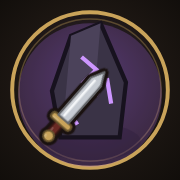
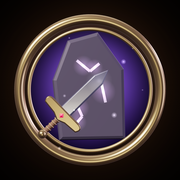
12.4: Charakterfenster mit Reitern, Magier ohne Bodendreieck, App-Symbol in 3D
Claude-Session: https://claude.ai/code/session_01E57rbLmDLzMX3aPcW8Bc43

diff --git a/js/oberflaeche.js b/js/oberflaeche.js
@@ -1366,25 +1366,43 @@ const ui = {
     const c = CLASSES[p.classId];
     const row = (k, v) => `<div><dt>${k}</dt><dd>${v}</dd></div>`;
     const pct = (v) => Math.round(v * 100) + ' %';
+    // Seit 12.4 auf Seiten verteilt (kein langes Scrollen): Status, Fertigkeiten, Werte
+    const tab = this.charTab || 'status';
+    const dot = (n) => (n > 0 ? `<i class="tab-dot">${n}</i>` : '');
+    const tabs = [['status', 'Status', dot(p.statPoints || 0)], ['skills', 'Fertigkeiten', dot(p.skillPoints || 0)], ['werte', 'Werte', '']];
+    const pages = {
+      status: this.elementHtml(p) + this.attrHtml(p),
+      skills:
+        `<p>Freie Fertigkeitspunkte: <span class="points">${p.skillPoints}</span> · Schriftrollen für deine Fertigkeiten: <span class="points">${totalBooks(p, true)}</span></p>` +
+        `<p class="hint-text">Bis Stufe 15 mit Punkten, dann mit einem Klick erwecken (E1–E10), danach geht es mit Fertigkeitsschriftrollen über Heroisch (H) und Legendär (L) bis Vollendet (V). Jede Schriftrolle gehört zu einer Fertigkeit. Seelensteine ab Stufe 40 lassen ab und zu Schriftrollen zu den Fertigkeiten deiner Klasse fallen; der Lehrmeister verkauft sie auch.</p>` +
+        skillListHtml(classSkills(p), p) + ultHtml(ultimateOf(p), p),
+      werte:
+        `<h3>Kampf</h3><dl class="stats">` +
+        row('Leben', s.maxHp) + row('Mana', s.maxMp) +
+        row('Angriff', s.atk) + row('Verteidigung', s.def) +
+        row('Kritische Treffer', pct(s.crit)) + row('Angriffstempo', pct(s.atkSpeed)) +
+        row('Magiestärke', '+' + pct(s.magic || 0)) + row('Lauftempo', speedText(p, s)) +
+        row('Blocken', pct(s.block)) + row('Ausweichen', pct(s.dodge)) +
+        `</dl><h3>Boni</h3><dl class="stats">` +
+        row('Stark gegen Monster', pct(s.monsterDmg || 0)) + row('Lebensraub', pct(s.hpSteal || 0)) +
+        `</dl><h3>Erfolge</h3><dl class="stats">` +
+        row('Besiegte Monster', p.kills.toLocaleString('de-DE')) + row('Zerstörte Seelensteine', p.stones) +
+        row('Tode', p.deaths) + row('Spielzeit', formatTime(p.playTime)) +
+        `</dl>`
+    };
     $('charBody').innerHTML =
       `<p class="char-head"><span><strong>${escapeHtml(p.name)}</strong> · ${c.name} · ${classPath(p.classId, p.path).name} · Stufe ${p.level}</span>` +
       `<button type="button" class="mini-btn" id="btnLook">✂ Aussehen ändern</button></p>` +
-      this.elementHtml(p) +
-      this.attrHtml(p) +
-      `<dl class="stats">` +
-      row('Leben', s.maxHp) + row('Mana', s.maxMp) +
-      row('Angriff', s.atk) + row('Verteidigung', s.def) +
-      row('Kritische Treffer', pct(s.crit)) + row('Lauftempo', speedText(p, s)) +
-      row('Angriffstempo', pct(s.atkSpeed)) + row('Magiestärke', '+' + pct(s.magic || 0)) +
-      row('Blocken', pct(s.block)) + row('Ausweichen', pct(s.dodge)) +
-      row('Stark gegen Monster', pct(s.monsterDmg || 0)) + row('Lebensraub', pct(s.hpSteal || 0)) +
-      row('Besiegte Monster', p.kills.toLocaleString('de-DE')) + row('Zerstörte Seelensteine', p.stones) +
-      row('Tode', p.deaths) + row('Spielzeit', formatTime(p.playTime)) +
-      `</dl>` +
-      `<h3>Fertigkeiten</h3>` +
-      `<p>Freie Fertigkeitspunkte: <span class="points">${p.skillPoints}</span> · Schriftrollen für deine Fertigkeiten: <span class="points">${totalBooks(p, true)}</span></p>` +
-      `<p class="hint-text">Bis Stufe 15 mit Punkten, dann mit einem Klick erwecken (E1–E10), danach geht es mit Fertigkeitsschriftrollen über Heroisch (H) und Legendär (L) bis Vollendet (V). Jede Schriftrolle gehört zu einer Fertigkeit. Seelensteine ab Stufe 40 lassen ab und zu Schriftrollen zu den Fertigkeiten deiner Klasse fallen; der Lehrmeister verkauft sie auch.</p>` +
-      skillListHtml(classSkills(p), p) + ultHtml(ultimateOf(p), p);
+      `<nav class="char-tabs" role="tablist">` +
+      tabs.map(([id, label, extra]) => `<button type="button" role="tab" data-ctab="${id}" class="${id === tab ? 'on' : ''}" aria-selected="${id === tab}">${label}${extra}</button>`).join('') +
+      `</nav><div class="char-page" data-page="${tab}">${pages[tab]}</div>`;
+    $('charBody').querySelectorAll('[data-ctab]').forEach((b) => {
+      b.addEventListener('click', () => {
+        this.charTab = b.dataset.ctab;
+        this.renderCharPanel();
+        $('charBody').scrollTop = 0;
+      });
+    });
     $('btnLook').addEventListener('click', () => this.openLookPanel());
     if ($('btnElement')) $('btnElement').addEventListener('click', () => this.showElementChoice());
     $('charBody').querySelectorAll('[data-upgrade]').forEach((b) => {

diff --git a/js/magier.js b/js/magier.js
@@ -468,7 +468,6 @@ function sigilFx(owner, x, y, sk, local, pw, lvl) {
   const last = sk.delay + (sk.ticks - 1) * sk.every;
   const tail = sk.el === 'frost' ? Math.max(1.8, sk.linger || 0) : sk.el === 'feuer' ? 0.5 : 0.35;
   const e = addEffect({ type: 'sigil3', ground: true, el: sk.el, x, y: fy, R: sk.radius, delay: sk.delay, ticks: sk.ticks, every: sk.every, last, dur: last + tail + 0.6, owner: ow, linger: sk.linger || 0 });
-  if (sk.el === 'frost') addEffect({ type: 'mground3', ground: true, x, y: fy, R: sk.radius, tex: 'hex', color: '#3a7bff', fadeIn: 0.15, delay: sk.delay, dur: sk.delay + (sk.linger || 3), op: 0.75 });
   for (let k = 0; k < sk.ticks; k++) {
     later(sk.delay + k * sk.every, () => {
       if (e.stop) return;
@@ -492,7 +491,6 @@ function sigilTick(owner, e, x, y, sk, k, last, local, pw, lvl) {
   const foes = local ? enemiesInCircle(x, y, sk.radius) : null;
   if (sk.el === 'feuer') {
     // Flammenwand am Rand zieht sich zur Mitte zusammen, dort ein Glutblitz
-    if (k === 0) addEffect({ type: 'decal', kind: 'scorch', x, y: fy, r: sk.radius * 0.8, dur: 3, color: '#2a0a0a' });
     later(0.4, () => {
       addEffect({ type: 'sparks3', x, y: fy, h: 0.4, count: 6, color: E.core, speed: 2.2, up: 1.4, dur: 0.5 });
       if (!V3.on) particles(x, fy - 8, { count: 12, color: ['#fff1c8', '#ff8a4a', '#e8362a'], speed: [60, 160], life: [0.25, 0.5], size: [2, 4], shape: 'ember', drag: 3 });
@@ -604,7 +602,8 @@ function mageHitFx(el) {
 function mageBuffCast(p, sk) {
   const E = mageElOf(sk.el);
   addEffect({ type: 'sigil3', ground: true, el: sk.el, follow: p, ox: 0, oy: 0, x: p.x, y: feetY(p), R: 50, flash: true, dur: 0.6 });
-  addEffect({ type: 'ring', follow: p, ox: 0, oy: 0, r: 50, dur: 0.5, color: E.main, width: 5, grow: true });
+  // (seit 12.4 ohne flachen Ring am Boden – das Siegel wirbelt die Funken nach oben)
+  void E;
 }
 
 (function () {
@@ -854,11 +853,32 @@ FX3_DRAW.sigil3 = function (h, e) {
   const sc = (0.6 + 0.4 * easeOut(draw)) * R;
   const rot = age * 0.4 + (n === 1 || n === 3 ? Math.PI : 0);
   const op = appear * end * (e.flash ? 1 : draw < 1 ? 0.75 + 0.25 * Math.sin(age * 18) : 0.85) * (n === 2 ? 0.55 : n === 3 ? 0.75 : 1);
-  // Rückseite in der dunklen Elementfarbe, darauf das leuchtende Dreieck
-  mGround(h, 'planeNMs' + n, MAGE_SIG_TEX[n], px, pz, sc * 1.05, 0.04, rot, E.deep, op * (e.small ? 0.5 : 0.7), true);
-  mGround(h, 'planeMs' + n, MAGE_SIG_TEX[n], px, pz, sc, 0.05, rot, E.main, op);
-  if (e.rank >= 0) mGround(h, 'plane', 'ring', px, pz, sc * 1.12, 0.045, 0, e.rankColor, op * 0.7);
-  if (e.flash) return;
+  // Seit 12.4 kein Dreieck mehr am Boden (der Spieler wollte keine Bodenzeichen): Elementfunken kreisen am Rand
+  // und steigen auf; beim Wirken (flash) wirbeln sie enger nach oben, dazu eine kurze Lichtsäule
+  const motes = e.flash ? (low ? 8 : 14) : low ? 14 : 24;
+  const spin = e.flash ? 2.6 : 0.9;
+  for (let i = 0; i < motes; i++) {
+    const ph = (age * (e.flash ? 1.6 : 0.8) + i * 0.137) % 1;
+    const a = (i / motes) * Math.PI * 2 + rot * 0.5 + age * spin * (e.flash || i % 2 ? 1 : -1);
+    const rr = sc * (e.flash ? 0.35 + 0.55 * (1 - ph) : 0.9 + 0.08 * Math.sin(age * 3 + i));
+    const yy = 0.08 + ph * (e.flash ? 1.7 : 0.85);
+    const s = (e.flash ? 0.17 : 0.15) * (1 - ph * 0.55) * (e.small ? 0.7 : 1);
+    mSprite(h, 'spriteMDisc', 'disc', x + Math.cos(a) * rr, yy, z + Math.sin(a) * rr, s, i % 3 ? E.main : E.hi, op * (1 - ph) * 0.95);
+  }
+  if (e.rank >= 0) for (let i = 0; i < 6; i++) {
+    const a = (i / 6) * Math.PI * 2 - age * 1.5;
+    mSprite(h, 'spriteMDisc', 'disc', x + Math.cos(a) * sc * 1.05, 0.25 + 0.1 * Math.sin(age * 4 + i), z + Math.sin(a) * sc * 1.05, 0.12, e.rankColor, op * 0.8);
+  }
+  if (e.flash) {
+    const k = clamp01(1 - age / e.dur);
+    const col = mTake(h, 'spriteMDisc', 'disc');
+    fx3Map(col, 'disc');
+    col.position.set(x, 1.0, z);
+    col.scale.set(sc * 0.55 + 0.25, 2.4 * (0.6 + 0.4 * appear), 1);
+    fx3Color(col, E.hi, op * 0.45 * k);
+    mSprite(h, 'spriteMDisc', 'disc', x, 0.35, z, sc * 0.9 + 0.3, E.main, op * 0.35 * k);
+    return;
+  }
   const T = age - e.delay;
   if (T < 0) return;
   const xx = e.x * U3;

diff --git a/index.html b/index.html
@@ -270,6 +270,7 @@
       <li>Einstellungen (Zahnrad oben rechts oder Taste O): Klänge und Lautstärke, Grafikqualität (Hoch, Mittel, Niedrig spart Akku), Kamera (Nah, Normal, Weit), Bildschirmwackeln, Schadenszahlen, Namen der Bewohner und Vibration; dazu Aussehen ändern, Server, Hilfe und zurück zum Startbildschirm.</li>
       <li>Aussehen: Bei der Erstellung wählst du Frisur (Kurz, Dutt, Lang, Stachelig, Pferdeschwanz, Glatze), Haarfarbe, Hautfarbe, Augenform, Augenfarbe und Gesichtszeichen; die Vorschau dreht sich beim Antippen. Später änderst du es im Charakterfenster mit „Aussehen ändern“. Mitspieler sehen dein Aussehen.</li>
       <li>Unter der Karte zeigt das Funkzeichen deinen Ping: im Kanal zum Host, allein zum Spielserver; ohne Internet steht dort „offline“.</li>
+      <li>Version 12.4 – <b>Charakterfenster in Seiten:</b> Oben drei Reiter – Status (Statuspunkte verteilen, Element), Fertigkeiten (verbessern, erwecken) und Werte (Kampfwerte, Boni wie „Stark gegen Monster“, Erfolge). Ein roter Punkt am Reiter zeigt freie Punkte. Kein langes Scrollen mehr, am PC und am Handy. <b>Magier ohne Bodendreieck:</b> Statt des Dreiecks am Boden wirbeln beim Wirken Elementfunken in einer Lichtsäule nach oben, große Siegel (Flammenkreis, Kristallgrab, Kugelblitz) zeigen ihren Bereich mit kreisenden, aufsteigenden Funken. <b>App-Symbol</b> neu in 3D gerendert (gleiches Motiv: Runenstein mit Schwert im Goldring).</li>
       <li>Version 12.3 – Chat am Handy wie am PC: Der Chat-Knopf öffnet das Chatfenster unten links groß, mit dem Finger kann man im Verlauf nach oben wischen, und das Eingabefeld sitzt unten im Fenster. Öffnet sich die Tastatur, rutscht das Fenster über sie. Senden oder × schließt es wieder.</li>
       <li>Version 12.2 – Städte neu aufgestellt: Die Stadtleute stehen jetzt links und rechts am Rand einander gegenüber, jeder vor seinem Stand und leicht zur Mitte gedreht; der Platz in der Mitte ist frei. Ältester und Wegweiserin, Waffen und Rüstung, Tränke und Alchemist, Schmied und Lager stehen sich jeweils gegenüber. Häuser, deren Dächer Stände verdeckten, sind weg. Weltentore, Weltportale, Dungeon-Tore, Laternen und Feuerbecken leuchten deutlich schwächer.</li>
       <li>Version 12.1 – Handy: Das Bild wurde manchmal unscharf und unten blieb ein schwarzer Streifen, bis man neu lud oder das Handy drehte. Jetzt misst das Spiel die Bildschirmgröße nach dem Drehen, nach der Tastatur im Chat und nach der Rückkehr aus dem Hintergrund mehrmals nach, und die automatisch gesenkte Auflösung geht wieder hoch, sobald das Spiel flüssig läuft.</li>

diff --git a/css/style.css b/css/style.css
@@ -2874,3 +2874,18 @@ body.aiming canvas { cursor: crosshair; }
 #chatBox.mob .chat-bar.in-box input { flex: 1; min-width: 0; padding: 5px 8px; font-size: 16px; }
 #chatBox.mob .chat-bar.in-box input:disabled { opacity: 0.7; font-size: 13px; }
 #chatBox.mob .chat-bar.in-box .btn { padding: 5px 9px; font-size: 13px; }
+
+/* Charakterfenster in Seiten (seit 12.4): Status, Fertigkeiten, Werte */
+.char-tabs { display: flex; gap: 6px; margin: 4px 0 10px; position: sticky; top: -14px; z-index: 2; padding: 6px 0; background: rgb(24, 19, 14); }
+.char-tabs button {
+  flex: 1; position: relative; padding: 8px 10px; border-radius: 9px; border: 1px solid var(--brass-dim, #6a5230);
+  background: linear-gradient(#2a2016, #1a130c); color: var(--parchment, #efe4c4); font: inherit; font-weight: 700; letter-spacing: 0.02em; cursor: pointer;
+}
+.char-tabs button.on { color: #1a120a; border-color: #f0d08a; background: linear-gradient(#f3d891, #c9a35a); }
+.char-tabs .tab-dot {
+  position: absolute; top: -6px; right: -4px; min-width: 18px; height: 18px; padding: 0 4px; border-radius: 9px; font-style: normal; font-size: 11px;
+  line-height: 18px; color: #fff; background: #d8402f; box-shadow: 0 0 0 1.5px #120c08;
+}
+.char-page .stats { margin-top: 2px; }
+.char-page h3:first-child { margin-top: 0; }
+@media (max-width: 720px) { .char-tabs button { padding: 7px 6px; font-size: 13px; } }

diff --git a/sw.js b/sw.js
@@ -1,6 +1,6 @@
 // Service Worker: speichert das Spiel auf dem Gerät, damit es auch ohne Internet startet.
 // Bei jeder neuen Version VERSION erhöhen, dann holen sich installierte Apps die neuen Dateien.
-const VERSION = 'seelenstein-v120';
+const VERSION = 'seelenstein-v121';
 const FILES = [
   './',
   'index.html',

diff --git a/js/spiel.js b/js/spiel.js
@@ -1,6 +1,6 @@
 // Spielzustand und Hauptschleife. Diese Datei wird als letzte geladen und startet alles.
 
-const GAME_VERSION = '12.3';
+const GAME_VERSION = '12.4';
 
 const game = {
   world: null,

diff --git a/README.md b/README.md
@@ -128,6 +128,7 @@ Nach einer Änderung an den Spieldateien in `sw.js` die `VERSION` erhöhen, dami
 - **10.6 Größere Welt, Pferd, freie Plätze**: Maps 360 × 150 (`WORLD_W` 1080, `WORLD_H` 600, `WORLD_MAPS.region` neu, `WORLD_VERSION` 8; alte Stände aus Welt 7 landen im Lager ihrer Map), Vlotho-Mauer 18 statt 14 (`VS` streckt den Dorfplan: Häuser, Leute, Stände, Laternen, Wachen relativ zur Mauer), Städte `CAMP_HALF` 14, Lager `camp` 9 (`mp.scale` streckt deren Pläne), Ringe und Eingänge angepasst, `WORLD_SCALE_MOBS` 2,8 / `WORLD_SCALE_STONES` 3,5; Pferd: `snd/tier-horse.mp3` (BigSoundBank CC0: Wiehern 0284/1542, Schnauben 0285), `snd.horse` aus `toggleRide`; freie Plätze am Anfang leer, auch Fertigkeiten (`sk:0…4`) und Ulti mit Abklingzeit (`quickEntry`, `quickChoices`)
 - **10.7 Höhere Maps, frei belegbare Leiste**: Maps 360 × 220 (`WORLD_H` 880, Regionen neu, `WORLD_VERSION` 9, Stände aus Welt 7 und 8 landen im Lager ihrer Map), `WORLD_SCALE_MOBS` 4 / `WORLD_SCALE_STONES` 4,9; `updateMonsters` überspringt ruhende Monster in Maps/Dungeons ohne Spieler (`areaKey`, `m.area`); Leiste: `p.skillOrder` darf `null` enthalten (leerer Platz), `pressSkill(btn, i, slot)` mit Ziehbild (`skillDragGhost`), Ablegen auf Platz (`finishSwap`), auf freien Platz (`moveToQuick`) oder außerhalb (`removeFromBar`), leerer Platz öffnet `openSlotPicker`; `setQuickSlot` nimmt eine Fertigkeit aus der Leiste (nichts doppelt)
 - **10.8 Infofelder, flüssige große Karte**: `js/tipps.js`: Elemente mit `data-info` (fertiges HTML) zeigen beim Darüberfahren ein Feld am Zeiger (`.hover-tip`), am Handy bei gedrückt gehaltenem Gegenstand (Klick danach wird geschluckt); Inhalte `itemTipHtml` (gear.tile), `skillTipHtml`/`ultTipHtml` (Leiste, freie Plätze). Große Karte in zwei Ebenen (`#bigMap` Gelände nur bei neuem `baseKey`, `#bigMapFx` Markierungen jedes dritte Bild), Monsterpunkte vorsortiert und in einem Pfad je Farbe; solange die Karte offen ist, zeichnet `frame()` die Welt nur jedes dritte Bild
+- **12.4 Charakter-Reiter, Magier-Siegel, Symbol**: `renderCharPanel` mit Reitern (`ui.charTab`: `status`, `skills`, `werte`, `.char-tabs`, roter Punkt bei freien Punkten); `FX3_DRAW.sigil3` zeichnet kein Dreieck mehr (Funken kreisen am Rand und steigen auf, beim Wirken Lichtsäule), Brandfleck und Eisfeld-Textur am Boden und der Ring beim Buff entfallen; `icons/*` neu gerendert (three.js-Szene)
 - **12.3 Handy-Chat**: `#chatBox.mob` (Gegenstück zu `.pc`): Eingabe `#chatBar` im Fenster, offen groß und scrollbar (`touch-action: pan-y`), Kanalwahl über die Reiter oben; `openChat` öffnet den Verlauf auch am Handy (Tastatur erst beim Antippen), `placeChat` hebt das Fenster per `visualViewport` über die Tastatur; `checkViewSize` greift während einer Eingabe nicht ein
 - **12.2 Stadtleute am Rand**: Vlotho-Leute in Kacheln ab der Mitte (`VL` = 12,75), `TOWN_SPOTS`/`CAMP_SPOTS` als `[x, y, Seite]` in Kacheln; `stand` (`w`/`e`/`n`) legt den Stand links, rechts oder hinter die Person (`SIDE`, Prop mit `rot`, `placeAt(..., pr.rot)`), `restYaw` dreht die Person zur Mitte. Vlotho ohne die Häuser links/rechts unten, Städte nur noch mit zwei Häusern oben. Licht schwächer (Laterne 0,6, Feuerbecken 1,0, Weltentor 0,55, Dungeon-Tore), Weltentor-Schein halb so hell (`WELTTOR_LOOK.haloK`)
 - **12.1 Bildgröße am Handy**: `viewSize`/`checkViewSize`/`resizeSoon` (`zeichnen.js`): Größe nach `resize`, `orientationchange`, `visualViewport`, `focusout`, `pageshow` und Rückkehr aus dem Hintergrund mehrmals nachmessen, im Spiel alle 0,5 s vergleichen (`frame`); als Home-Bildschirm-App quer gilt die volle Bildschirmhöhe (iOS meldet sie dort teils zu klein), Seite zurück nach oben scrollen. `adaptQuality` hebt die Auflösung wieder an (zweimal Median ≤ 15 ms), `qualityPause` nach Hintergrund/Drehen, `qualityRestore` beim Wechsel ins Querformat
